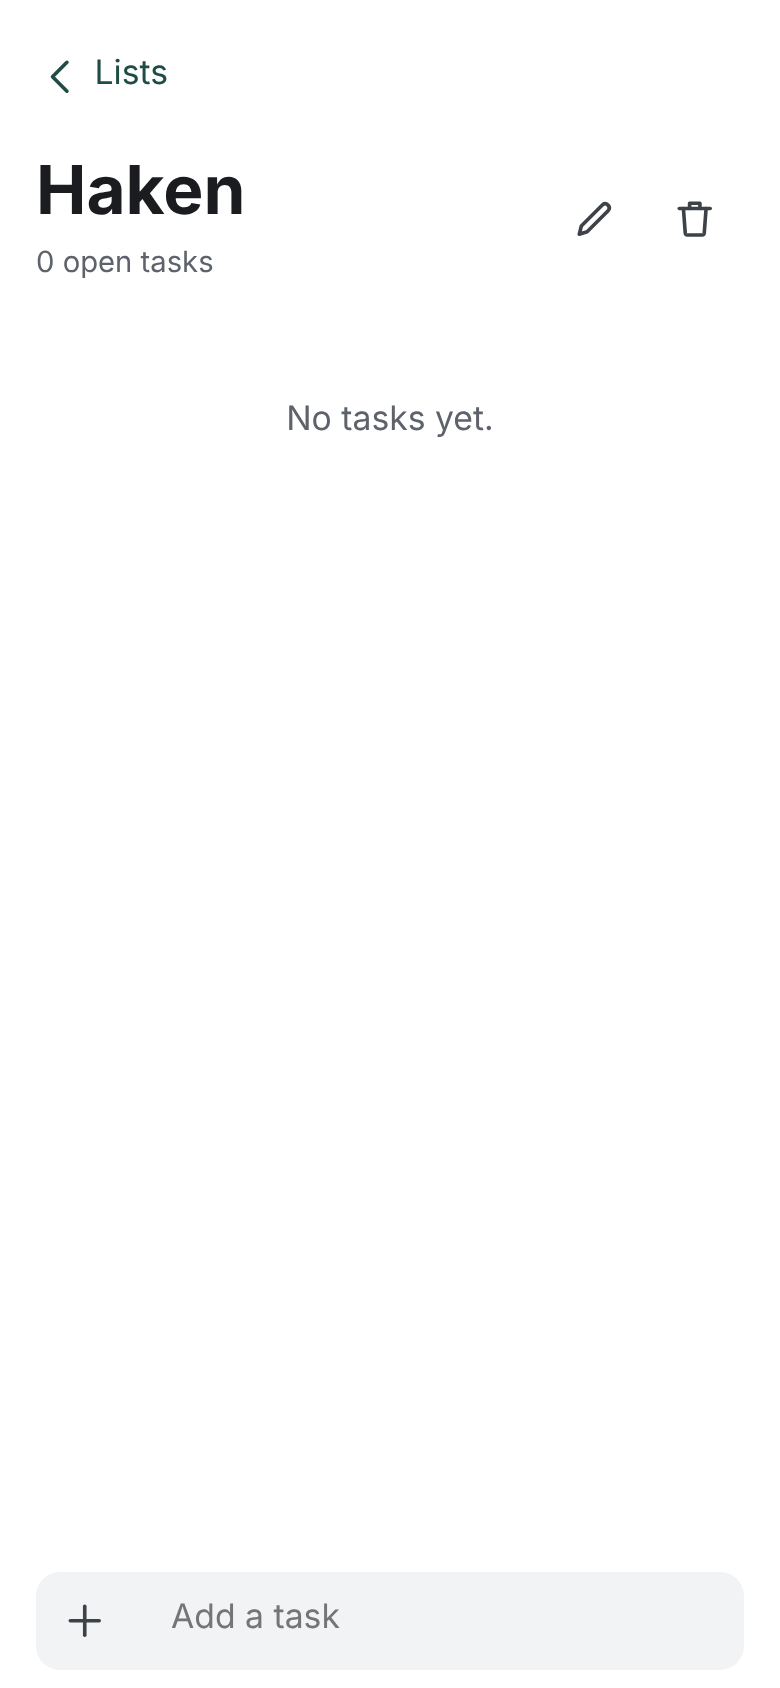
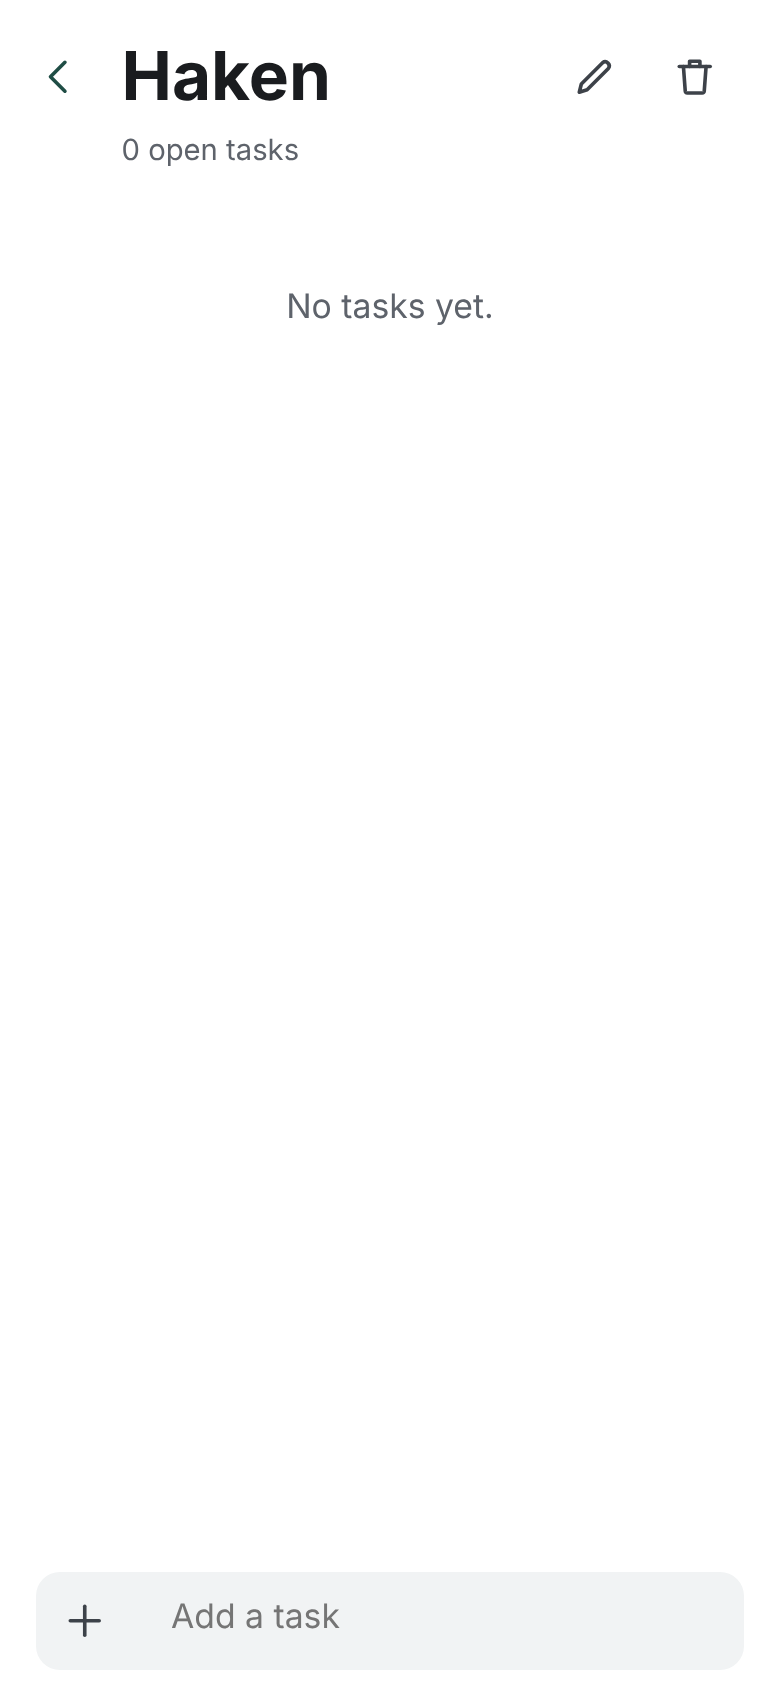
Mobile: back chevron before the title
The back link moves from its own row into the title row, in the slot
the logo takes on the lists screen: every title sits on the same line.
Icon only; accessible name "Back to <parent>" (shared backLink).

Claude-Session: https://claude.ai/code/session_01L1VAnHJ3d8s3FPkbEAGtBR

diff --git a/web/styles/app.css b/web/styles/app.css
@@ -296,10 +296,6 @@ label {
   haken-list > .tasks {
     flex: 1 0 auto;
   }
-
-  .detail-header .close {
-    display: none;
-  }
 }
 
 /* ------------------------------------------------------------ sidebar */
@@ -438,23 +434,26 @@ haken-task {
   display: block;
 }
 
+/* Row 1: [back] title [actions]; row 2: subtitle under the title. */
 .list-header {
   display: grid;
-  grid-template-columns: 1fr auto;
+  grid-template-columns: auto 1fr auto;
+  align-items: center;
   padding-top: 0.75rem;
 }
 
-.list-header .back {
-  grid-column: 1 / -1;
-}
-
+/*
+ * Back sits before the title, in the slot the logo takes on the lists
+ * screen: the 44 px target is pulled left so the chevron lines up with the
+ * gutter and the title starts where the app name does.
+ */
 .back {
-  display: inline-flex;
-  align-items: center;
-  gap: 0.25rem;
-  min-height: 2.75rem;
+  display: inline-grid;
+  place-items: center;
+  width: 2.75rem;
+  height: 2.75rem;
+  margin-inline: -0.75rem 0.375rem;
   color: var(--accent);
-  text-decoration: none;
 }
 
 @media (min-width: 721px) {
@@ -470,16 +469,21 @@ haken-task {
   overflow-wrap: anywhere;
 }
 
+.list-header .page-title {
+  grid-column: 2;
+  margin: 0;
+}
+
 .subtitle {
-  grid-column: 1;
+  grid-column: 2;
   margin: 2px 0 0.75rem;
   color: var(--text-muted);
   font-size: 0.8125rem;
 }
 
 .list-actions {
-  grid-row: 2 / 4;
-  grid-column: 2;
+  grid-row: 1;
+  grid-column: 3;
   display: flex;
   align-items: center;
 }
@@ -710,9 +714,14 @@ haken-task {
 
 .detail-header {
   display: flex;
-  justify-content: space-between;
+  justify-content: flex-end;
   align-items: center;
   padding-top: 0.75rem;
+}
+
+/* The check circle has its own 44 px target: no extra gap after back. */
+.task-head .back {
+  margin-inline-end: -0.5rem;
 }
 
 .task-head {
@@ -720,6 +729,17 @@ haken-task {
   align-items: flex-start;
   gap: 0.25rem;
   margin: 0.5rem 0 0.75rem;
+}
+
+/* Mobile: back is in .task-head and there is nothing to close; the head takes the header's place. */
+@media (max-width: 720px) {
+  .detail-header {
+    display: none;
+  }
+
+  .task-head {
+    margin-top: 0.75rem;
+  }
 }
 
 .task-heading {

diff --git a/web/src/ui/screens/task.ts b/web/src/ui/screens/task.ts
@@ -9,6 +9,7 @@ import { formatDate, locale, t } from "../i18n.js";
 import { icon } from "../icons.js";
 import { type ListId, toHash } from "../route.js";
 import { dueDate, localDate } from "../views.js";
+import { backLink } from "./back.js";
 import { repeatRow } from "./repeat.js";
 import { checkCircle, formatSize, starButton } from "./taskparts.js";
 
@@ -488,7 +489,7 @@ export class HakenTask extends HTMLElement {
     const view = item.view;
     const readonly = view.repeats && view.recurrence === null;
     const listName = ctx.snapshot.lists.find((l) => l.href === item.list)?.name ?? "";
-    const back = h("a", { class: "back", href: closeHref }, icon("back"), h("span", {}, listName));
+    const back = backLink(closeHref, listName);
     const title = h("textarea", {
       class: view.done ? "task-heading-input done" : "task-heading-input",
       rows: "1",
@@ -561,10 +562,11 @@ export class HakenTask extends HTMLElement {
 
     fill(
       this,
-      h("header", { class: "detail-header" }, back, close),
+      h("header", { class: "detail-header" }, close),
       h(
         "div",
         { class: "task-head" },
+        back,
         checkCircle(ctx, item, view, readonly),
         title,
         starButton(ctx, item, view, readonly),

diff --git a/web/src/ui/screens/list.ts b/web/src/ui/screens/list.ts
@@ -8,6 +8,7 @@ import { t, tp } from "../i18n.js";
 import { icon } from "../icons.js";
 import { type ListId, toHash } from "../route.js";
 import { defaultList, focusParts, localDate, show } from "../views.js";
+import { backLink } from "./back.js";
 import { smartName } from "./sidebar.js";
 import { checkCircle, metaLine, starButton } from "./taskparts.js";
 
@@ -169,12 +170,7 @@ export class HakenList extends HTMLElement {
       );
     }
 
-    const back = h(
-      "a",
-      { class: "back", href: "#/", "aria-label": t("nav.backTo", { name: t("lists.title") }) },
-      icon("back"),
-      h("span", {}, t("lists.title")),
-    );
+    const back = backLink("#/", t("lists.title"));
 
     const header = h(
       "header",

diff --git a/web/src/ui/screens/settings.ts b/web/src/ui/screens/settings.ts
@@ -8,6 +8,7 @@ import { fill, h } from "../dom.js";
 import { formatDate, locales, t, tp } from "../i18n.js";
 import { icon } from "../icons.js";
 import { DEFAULT_ACCENT } from "../theme.js";
+import { backLink } from "./back.js";
 import { download } from "./task.js";
 
 function card(title: string, ...children: (Node | null)[]): HTMLElement {
@@ -437,7 +438,7 @@ export class HakenSettings extends HTMLElement {
       h(
         "header",
         { class: "list-header" },
-        h("a", { class: "back", href: "#/" }, icon("back"), h("span", {}, t("lists.title"))),
+        backLink("#/", t("lists.title")),
         h("h1", { class: "page-title" }, t("settings.title")),
       ),
       accountCard(ctx),

diff --git a/web/src/ui/screens/back.ts b/web/src/ui/screens/back.ts
@@ -1,0 +1,12 @@
+/** Back navigation (chapter 8, Layout): an icon before the title, mobile only. */
+import { h } from "../dom.js";
+import { t } from "../i18n.js";
+import { icon } from "../icons.js";
+
+export function backLink(href: string, parent: string): HTMLElement {
+  return h(
+    "a",
+    { class: "back", href, "aria-label": t("nav.backTo", { name: parent }) },
+    icon("back"),
+  );
+}

diff --git a/docs/arc42/08-crosscutting-concepts.md b/docs/arc42/08-crosscutting-concepts.md
@@ -34,7 +34,7 @@ Smart lists are views and are never stored on the server. Their names are transl
 
 ### Layout
 
-- **Mobile:** one screen at a time; the header holds back navigation, which is labelled with the parent's name.
+- **Mobile:** one screen at a time. Back is a chevron before the title, in the slot the logo takes on the lists screen, so every title sits on the same line; its accessible name is *Back to* + the parent's name.
 - **Desktop:** three panes: sidebar (lists, 260 px), list (fluid, content max 760 px) and task detail (≥ 340 px, closable). The panes use `flex-wrap`, so they stack on narrow windows without breakpoint code. The selected list and selected task are highlighted with `--selected` / `--surface-2`.
 - The settings screen scrolls; nothing else needs to scroll horizontally.
 - Avoid breakpoint code; layouts adapt through `flex-wrap` and intrinsic sizes. Exceptions: mobile shows one pane at a time by a single CSS media query at 720 px (no layout code in JS); `pointer: coarse` scales the root font size.

diff --git a/CHANGELOG.md b/CHANGELOG.md
@@ -10,6 +10,7 @@ versions: [Semantic Versioning](https://semver.org/). Releasing is described in
 
 - Larger text and spacing on touch screens.
 - Settings section titles in sentence case.
+- Mobile: the back arrow sits before the title instead of above it; titles stay on the same line on every screen.
 - Drag a task or list by the whole row (touch: hold first); rows slide aside to show where it lands. Alt+↑/↓ moves the focused row.
 
 ### Fixed
